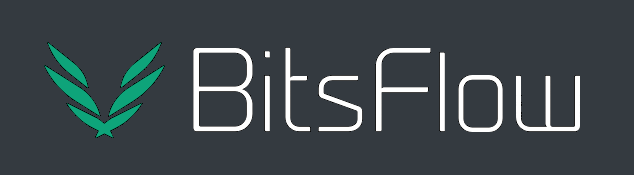
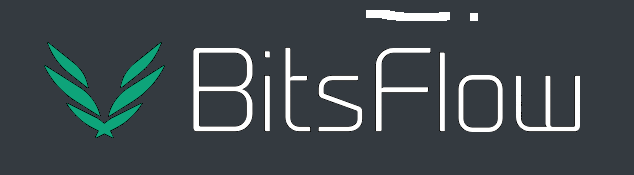
particle js

Changed region(s): [[0.5694, 0.0571, 0.7792, 0.1429]]

diff --git a/src/js/common/particle.js b/src/js/common/particle.js
@@ -1,0 +1,141 @@
+// /* ---- particles.js config ---- */
+
+particlesJS("particles-js", {
+    "particles": {
+      "number": {
+        "value": 380,
+        "density": {
+          "enable": true,
+          "value_area": 800
+        }
+      },
+      "color": {
+        "value": "#ffffff"
+      },
+      "shape": {
+        "type": "circle",
+        "stroke": {
+          "width": 0,
+          "color": "#000000"
+        },
+        "polygon": {
+          "nb_sides": 5
+        },
+        "image": {
+          "src": "img/github.svg",
+          "width": 100,
+          "height": 100
+        }
+      },
+      "opacity": {
+        "value": 0.5,
+        "random": false,
+        "anim": {
+          "enable": false,
+          "speed": 1,
+          "opacity_min": 0.1,
+          "sync": false
+        }
+      },
+      "size": {
+        "value": 3,
+        "random": true,
+        "anim": {
+          "enable": false,
+          "speed": 40,
+          "size_min": 0.1,
+          "sync": false
+        }
+      },
+      "line_linked": {
+        "enable": true,
+        "distance": 150,
+        "color": "#ffffff",
+        "opacity": 0.4,
+        "width": 1
+      },
+      "move": {
+        "enable": true,
+        "speed": 6,
+        "direction": "none",
+        "random": false,
+        "straight": false,
+        "out_mode": "out",
+        "bounce": false,
+        "attract": {
+          "enable": false,
+          "rotateX": 600,
+          "rotateY": 1200
+        }
+      }
+    },
+    "interactivity": {
+      "detect_on": "canvas",
+      "events": {
+        "onhover": {
+          "enable": true,
+          "mode": "grab"
+        },
+        "onclick": {
+          "enable": true,
+          "mode": "push"
+        },
+        "resize": true
+      },
+      "modes": {
+        "grab": {
+          "distance": 140,
+          "line_linked": {
+            "opacity": 1
+          }
+        },
+        "bubble": {
+          "distance": 400,
+          "size": 40,
+          "duration": 2,
+          "opacity": 8,
+          "speed": 3
+        },
+        "repulse": {
+          "distance": 200,
+          "duration": 0.4
+        },
+        "push": {
+          "particles_nb": 4
+        },
+        "remove": {
+          "particles_nb": 2
+        }
+      }
+    },
+    "retina_detect": true
+  });
+  
+  
+  /* ---- stats.js config ---- */
+  
+  var count_particles, stats, update;
+  stats = new Stats;
+  stats.setMode(0);
+  stats.domElement.style.position = 'absolute';
+  stats.domElement.style.left = '0px';
+  stats.domElement.style.top = '0px';
+  document.body.appendChild(stats.domElement);
+  count_particles = document.querySelector('.js-count-particles');
+  update = function() {
+    stats.begin();
+    stats.end();
+    if (window.pJSDom[0].pJS.particles && window.pJSDom[0].pJS.particles.array) {
+      count_particles.innerText = window.pJSDom[0].pJS.particles.array.length;
+    }
+    requestAnimationFrame(update);
+  };
+  requestAnimationFrame(update);
+
+
+
+// /* particlesJS.load(@dom-id, @path-json, @callback (optional)); */
+// particlesJS.load('particles-js', '../json/particles.json', function() {
+//     console.log('callback - particles.js config loaded');
+//   });
+  

diff --git a/src/home.html b/src/home.html
@@ -5,13 +5,16 @@
     <meta name="viewport" content="width=device-width, initial-scale=1.0">
     <title>Home</title>
   <link rel="stylesheet" href="style/home.css">
+  <link rel="stylesheet" href="style/common/particle.css">
+
   <link rel="stylesheet" href="https://maxcdn.bootstrapcdn.com/bootstrap/4.5.2/css/bootstrap.min.css">
   <link rel="stylesheet" href="https://cdnjs.cloudflare.com/ajax/libs/font-awesome/5.15.4/css/all.min.css">
 
 
 </head>
 <body>
-    
+  <!-- <div id="particles-js"></div> -->
+
  
     
  <nav class="navbar fixed-top navbar-expand-lg navbar-dark bg-dark">
@@ -36,6 +39,8 @@
 </ul>
   
 </nav>
+
+
 
         <div class="new-container ">
             <div class="content">
@@ -62,6 +67,10 @@
         <script src="https://kit.fontawesome.com/your-font-awesome-kit.js" crossorigin="anonymous"></script>
         <script src="https://code.jquery.com/jquery-3.6.0.min.js"></script>
         <script src="https://maxcdn.bootstrapcdn.com/bootstrap/4.5.2/js/bootstrap.min.js"></script>
-    
+        <script src="js/common/particle.js"></script>
+        <script src="https://cdn.jsdelivr.net/particles.js/2.0.0/particles.min.js"></script>
+
+        <script src="https://threejs.org/examples/js/libs/stats.min.js"></script>
+
 </body>
 </html>

diff --git a/src/style/common/particle.css b/src/style/common/particle.css
@@ -1,0 +1,60 @@
+/* ---- reset ---- */
+
+body {
+    margin: 0;
+    font:normal 75% Arial, Helvetica, sans-serif;
+  }
+  
+  canvas {
+    display: block;
+    vertical-align: bottom;
+  }
+  
+  /* ---- particles.js container ---- */
+  
+  #particles-js {
+    position: absolute;
+    width: 100%;
+    height: 100%;
+    background-color: #b61924;
+    background-image: url("");
+    background-repeat: no-repeat;
+    background-size: cover;
+    background-position: 50% 50%;
+  }
+  
+  /* ---- stats.js ---- */
+  
+  .count-particles{
+    background: #000022;
+    position: absolute;
+    top: 48px;
+    left: 0;
+    width: 80px;
+    color: #13E8E9;
+    font-size: .8em;
+    text-align: left;
+    text-indent: 4px;
+    line-height: 14px;
+    padding-bottom: 2px;
+    font-family: Helvetica, Arial, sans-serif;
+    font-weight: bold;
+  }
+  
+  .js-count-particles{
+    font-size: 1.1em;
+  }
+  
+  #stats,
+  .count-particles{
+    -webkit-user-select: none;
+  }
+  
+  #stats{
+    border-radius: 3px 3px 0 0;
+    overflow: hidden;
+  }
+  
+  .count-particles{
+    border-radius: 0 0 3px 3px;
+  }

diff --git a/src/style/home.css b/src/style/home.css
@@ -107,6 +107,7 @@ animation: animate 6s linear infinite;
 .twitch:hover .one {
 border: none;
 background:rgb(20, 36, 50);;
+opacity: 30%;
 }
 
 .square .two {
@@ -124,6 +125,7 @@ animation: animate 6s linear infinite;
 .twitch:hover .two {
 border: none;
 background: rgb(20, 36, 50);;
+opacity: 50%;
 
 }
 
@@ -144,6 +146,7 @@ animation: animate2 10s linear infinite;
 .twitch:hover .three {
 border: none;
 background:rgb(20, 36, 50);;
+opacity: 70%;
 }
 
 .circle {
